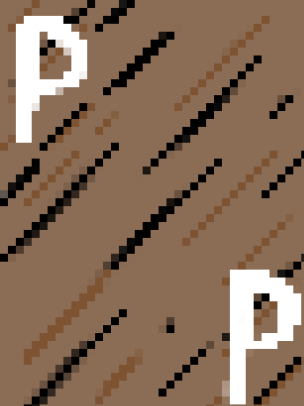
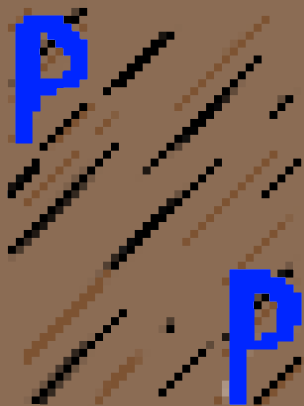
Add files via upload

diff --git a/index.html b/index.html
@@ -5,16 +5,16 @@
 </head>
 <style>
 body {
-	color: blue;
+	color: white;
 }
 h1 {
-	color: #0000FF;
+	color: #FFFFFF;
 }
 p {
-	color: rgb(0,0,9)
+	color: rgb(255,255,255)
 }
 </style>
-<body background="BackGround.png" style="background-color:#A52A2A">
+<body background="BackGround.png" style="background-color:#8B6C54">
 <body>
 <font face="Sans-serif">
 <h3> <center> Welcome To Puppy PlayGround </center> </h3>
@@ -26,9 +26,9 @@ Click to display Date & Time</button> <center>
 
 <p id="demo"></p>
 
-<p> <center> <strong> <a href="https://puppyplaygroundvr-github-io.pages.dev/SiteLinks.html" style="color:blue"> Site Links </a> </strong>
-<p> <center> <strong> <a href="https://puppyplaygroundvr-github-io.pages.dev/DiscordChat.html" style="color:blue"> Discord Chat </a> </strong>
-<p> <center> <strong> <a href="https://puppyplaygroundvr-github-io.pages.dev/Rules.html" style="color:blue"> Rules </a> </strong>
+<p> <center> <strong> <a href="https://puppyplaygroundvr-github-io.pages.dev/SiteLinks.html" style="color:white"> Site Links </a> </strong>
+<p> <center> <strong> <a href="https://puppyplaygroundvr-github-io.pages.dev/DiscordChat.html" style="color:white"> Discord Chat </a> </strong>
+<p> <center> <strong> <a href="https://puppyplaygroundvr-github-io.pages.dev/Rules.html" style="color:white"> Rules </a> </strong>
 <br>
 </br>
 <p> 

diff --git a/SiteLinks.html b/SiteLinks.html
@@ -3,14 +3,26 @@
 <head>
 <title>Puppy PlayGround SiteLinks</title>
 </head>
+<style>
+body {
+	color: white;
+}
+h1 {
+	color: #FFFFFF;
+}
+p {
+	color: rgb(255,255,255)
+}
+</style>
+<body background="BackGround.png" style="background-color:#8B6C54">
 <body>
 <font face="Sans-serif">
 <h3> <center> Site Links </center> </h3>
 <br>
 <p> <center> <strong> The Good Stuff </strong> </center> </p>
-<p> <center> <a href="https://puppyplaygroundvr-github-io.pages.dev/">Home Page </a>
-<p> <center> <a href="https://puppyplaygroundvr-github-io.pages.dev/Rules.html">Rules </a>
-<p> <center> <a href="https://puppyplaygroundvr-github-io.pages.dev/DiscordChat.html">Discord Chat </a>
+<p> <center> <a href="https://puppyplaygroundvr-github-io.pages.dev/" style="color:white">Home Page </a>
+<p> <center> <a href="https://puppyplaygroundvr-github-io.pages.dev/Rules.html" style="color:white">Rules </a>
+<p> <center> <a href="https://puppyplaygroundvr-github-io.pages.dev/DiscordChat.html" style="color:white">Discord Chat </a>
 <div> 
         <div class="content">
             <iframe src="https://discord.com/widget?id=995323711383146537&amp;theme=dark" width="350" height="500" allowtransparency="false" frameborder="0" sandbox="allow-popups allow-popups-to-escape-sandbox allow-same-origin allow-scripts"></iframe>

diff --git a/DiscordChat.html b/DiscordChat.html
@@ -3,14 +3,26 @@
 <link rel="icon" href="Discord.png">
 <title> Puppy PlayGround Chat </title>
 </head>
+<style>
+body {
+	color: white;
+}
+h1 {
+	color: #FFFFFF;
+}
+p {
+	color: rgb(255,255,255)
+}
+</style>
+<body background="BackGround.png" style="background-color:#8B6C54">
 <body>
 <font face="Sans-serif">
 <h3> <center> Discord Chat </center> </h3>
 <br>
 <p> <center> <strong> The Good Stuff </strong> </center> </p>
-<p> <center> <a href="https://puppyplaygroundvr-github-io.pages.dev/">Home Page </a>
-<p> <center> <a href="https://puppyplaygroundvr-github-io.pages.dev/Rules.html">Rules </a>
-<p> <center> <a href="https://puppyplaygroundvr-github-io.pages.dev/SiteLinks.html">Site Links </a>
+<p> <center> <a href="https://puppyplaygroundvr-github-io.pages.dev/" style="color:white">Home Page </a>
+<p> <center> <a href="https://puppyplaygroundvr-github-io.pages.dev/Rules.html" style="color:white">Rules </a>
+<p> <center> <a href="https://puppyplaygroundvr-github-io.pages.dev/SiteLinks.html" style="color:white">Site Links </a>
 <script src="https://cdn.jsdelivr.net/npm/@widgetbot/crate@3" async defer>
   new Crate({
     server: '995323711383146537',

diff --git a/Rules.html b/Rules.html
@@ -3,14 +3,26 @@
 <head>
 <title>Puppy PlayGround Rules</title>
 </head>
+<style>
+body {
+	color: white;
+}
+h1 {
+	color: #FFFFFF;
+}
+p {
+	color: rgb(255,255,255)
+}
+</style>
+<body background="BackGround.png" style="background-color:#8B6C54">
 <body>
 <font face="Sans-serif">
 <h3> <center> Follow These Rules </center> </h3>
 <br>
 <p> <center> <strong> NO RULES YET </strong> </center> </p>
-<p> <center> <a href="https://puppyplaygroundvr-github-io.pages.dev/">Home Page </a>
-<p> <center> <a href="https://puppyplaygroundvr-github-io.pages.dev/SiteLinks.html">Site Links </a>
-<p> <center> <a href="https://puppyplaygroundvr-github-io.pages.dev/DiscordChat.html">Discord Chat </a>
+<p> <center> <a href="https://puppyplaygroundvr-github-io.pages.dev/" style="color:white">Home Page </a>
+<p> <center> <a href="https://puppyplaygroundvr-github-io.pages.dev/SiteLinks.html" style="color:white">Site Links </a>
+<p> <center> <a href="https://puppyplaygroundvr-github-io.pages.dev/DiscordChat.html" style="color:white">Discord Chat </a>
 </font>
 </body>
 </html>
